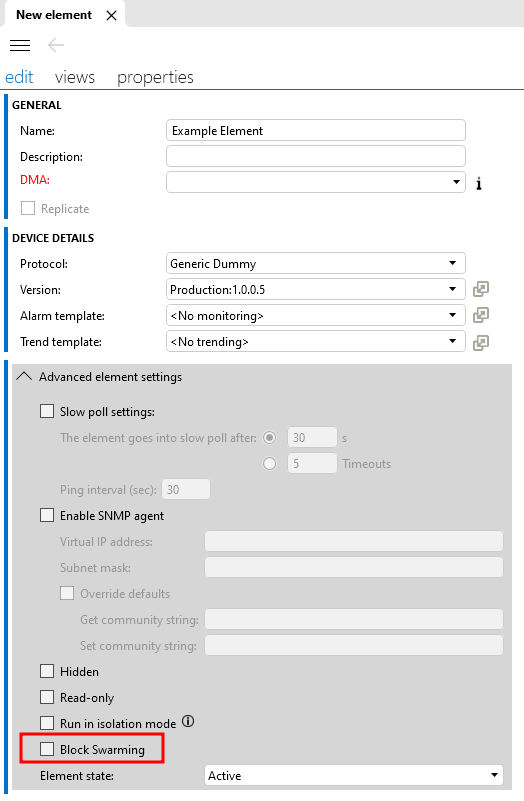
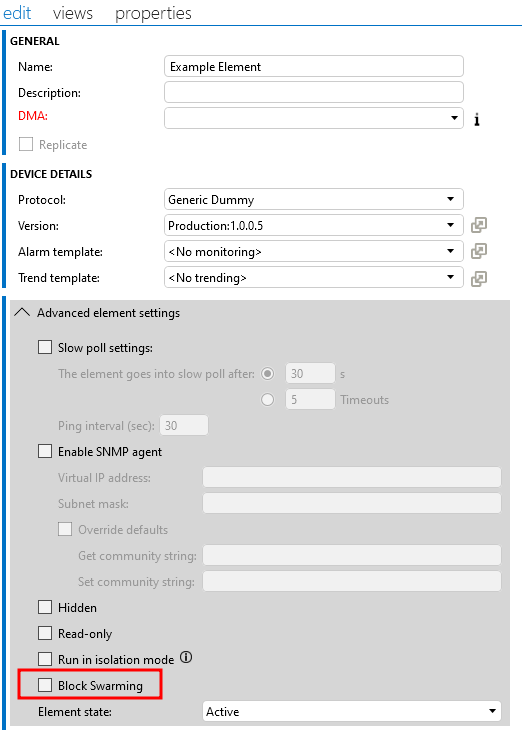
Review

diff --git a/user-guide/Advanced_Functionality/Swarming/SwarmingElements.md b/user-guide/Advanced_Functionality/Swarming/SwarmingElements.md
@@ -43,13 +43,14 @@ Skyline.DataMiner.Net.Swarming.SwarmingResult[] swarmingResults = Skyline.DataMi
 
 For more detailed examples, refer to [Configuring a script to swarm elements](xref:SwarmingScriptElement).
 
-## Block elements from swarming
+## Blocking elements from being swarmed
 
-From DataMiner 10.5.5/10.6.0 onwards<!--RN 42535-->, it is possible to block specific elements from swarming.
-If Swarming is enabled, you can configure this setting in the *Advanced element settings* dropdown when creating or editing an element in DataMiner Cube.
+From DataMiner 10.5.5/10.6.0 onwards<!--RN 42535-->, it is possible to block specific elements from being swarmed.
+
+To do so, when you create or edit an element in DataMiner Cube, expand the *Advanced element settings* section and select *Block Swarming*.
 
 ![Block Swarming in Cube](~/user-guide/images/Swarming_Element_BlockSwarming.png)
 
-This checkbox is unchecked by default for new and existing elements.
+By default, this checkbox is not selected for new and existing elements.
 
-Trying to swarm such an element will give the error message *Element is not allowed to swarm (blocked)*.
+If the checkbox is selected for an element and a user tries to swarm the element, this will result in the error message *Element is not allowed to swarm (blocked)*.

diff --git a/user-guide/Basic_Functionality/Elements/Working_with_elements/Adding_elements.md b/user-guide/Basic_Functionality/Elements/Working_with_elements/Adding_elements.md
@@ -147,6 +147,8 @@ keywords: element wizard
 
    - **Run in isolation mode**: Available from DataMiner 10.4.0 [CU13]/10.5.0 [CU1]/10.5.4 onwards<!--RN 41758-->. Select this checkbox if you want the element to be run in isolation mode. See [Adding elements in isolation mode](#adding-elements-in-isolation-mode).
 
+   - **Block Swarming**: Available from 10.5.5/10.6.0 onwards<!--RN 42535-->. See [Blocking elements from being swarmed](xref:SwarmingElements#blocking-elements-from-being-swarmed).
+
    - **Element state**: Select the initial state of the element in this selection box. By default this will be set to “Active”.
 
 1. Click *Next* and specify the view(s) to which you want to link the element.
